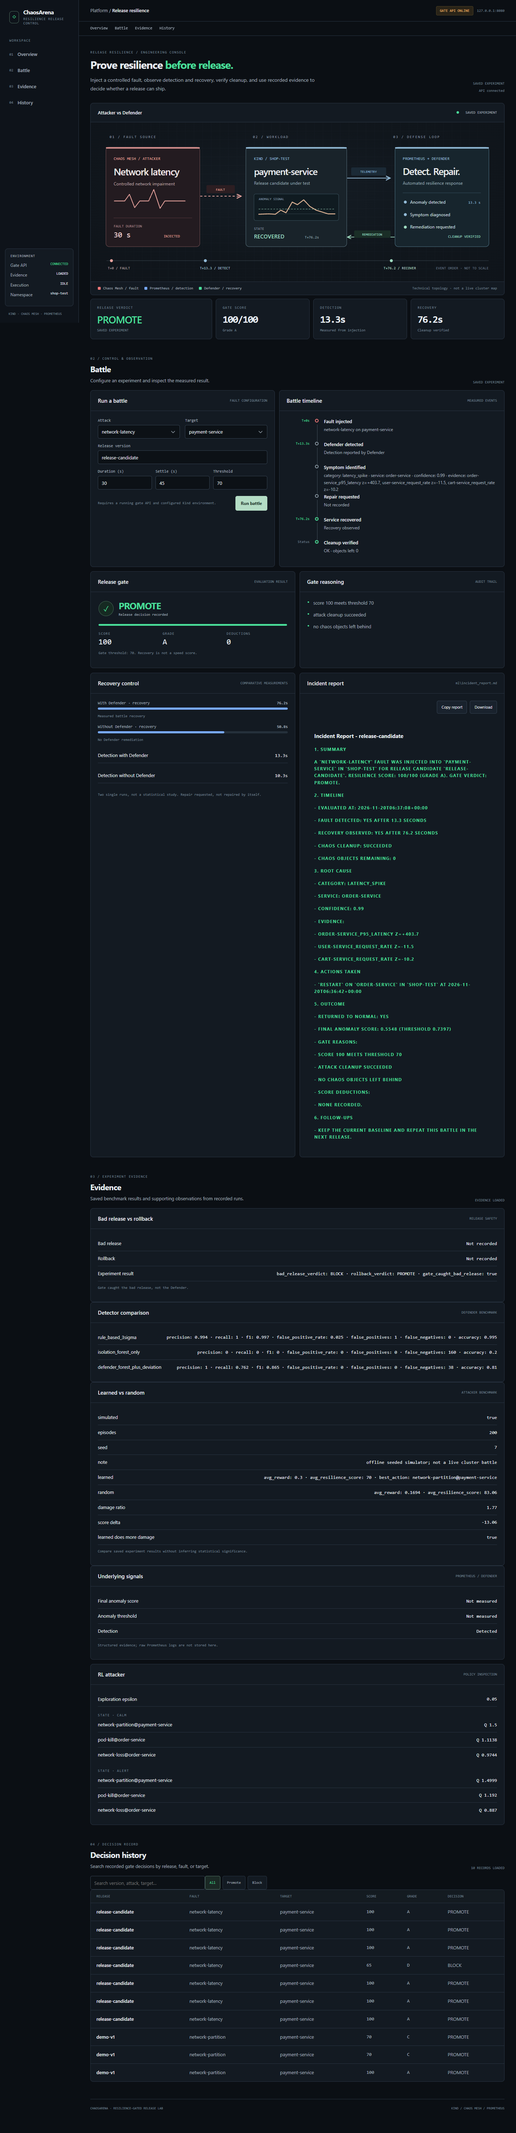
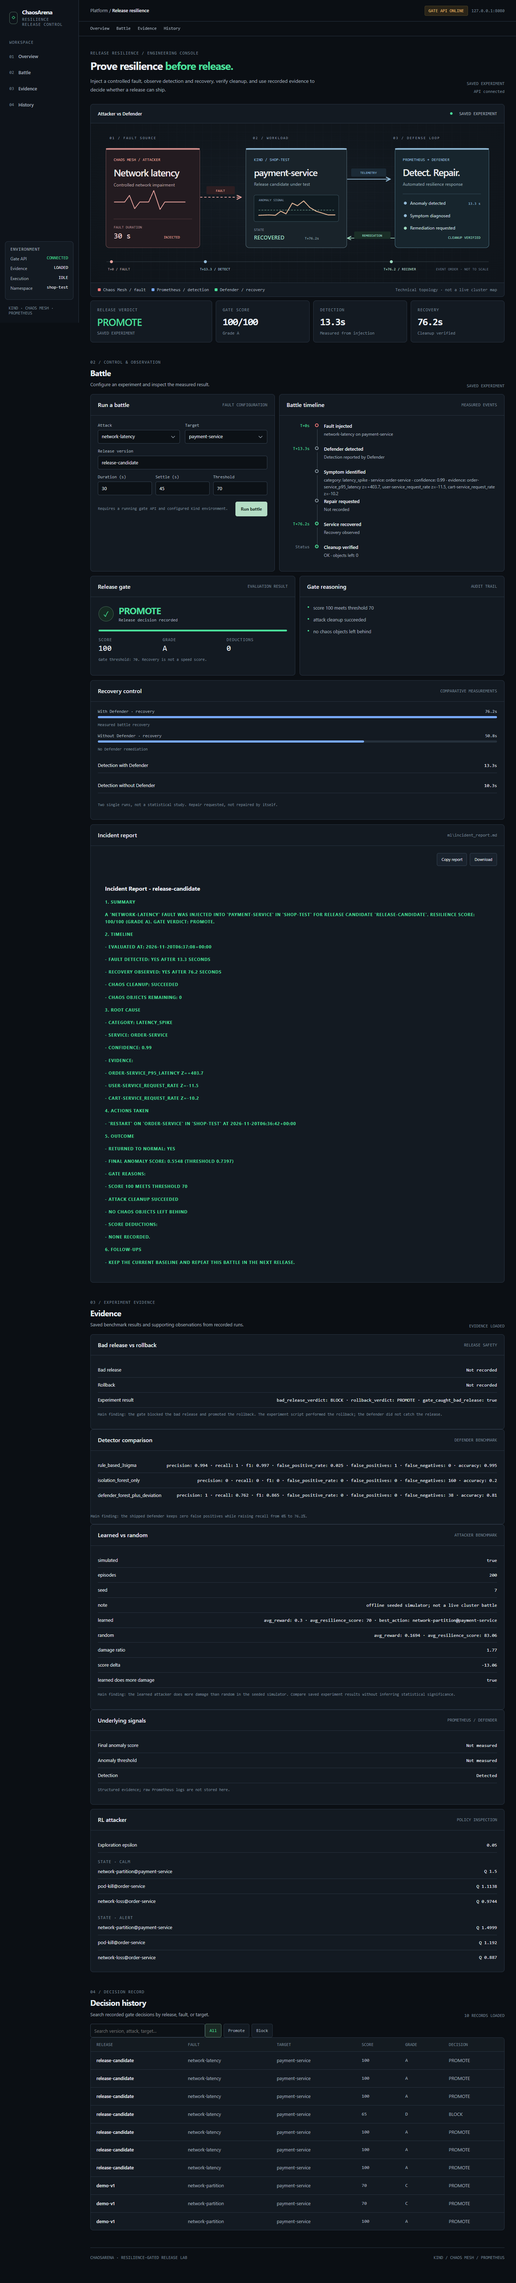
Apply comprehensive UI quality pass and fix responsive layout

diff --git a/dashboard/src/App.jsx b/dashboard/src/App.jsx
@@ -21,8 +21,8 @@ function Gate({result,threshold}){const score=result?.score?.score??result?.deci
 function ReportView({text}){if(!text)return <p className="state">No incident report recorded.</p>;const lines=String(text).split('\n');const blocks=[];let list=[];const flush=()=>{if(list.length){blocks.push(<ul key={blocks.length}>{list.map((item,i)=><li key={i}>{item}</li>)}</ul>);list=[]}};for(const raw of lines){const line=raw.trim();if(!line){flush();continue}if(line.startsWith('# ')){flush();blocks.push(<h3 key={blocks.length}>{line.slice(2)}</h3>);continue}const heading=line.match(/^\\*\\*(.+)\\*\\*$/) || line.match(/^\\d+\\.\\s+(.+)$/);if(heading){flush();blocks.push(<h4 key={blocks.length}>{heading[1]}</h4>);continue}if(line.startsWith('- ')){list.push(line.slice(2));continue}flush();blocks.push(<p key={blocks.length}>{line}</p>)}flush();return <div className="report">{blocks}</div>}
 function Track({label,seconds,max,sub}){return <div><div className="track-head"><span>{label}</span><strong>{fmt(seconds,'s')}</strong></div><div className="track"><span style={{width:hasNumber(seconds)&&max>0?`${Math.min(100,seconds/max*100)}%`:'0%'}}/></div><div className="recovery-note">{sub}</div></div>}
 function Compare({evidence,battle}){const baseline=evidence?.no_defender_baseline;const max=Math.max(1,battle?.recovery_seconds||0,baseline?.recovery_seconds||0);return <div className="recovery-tracks"><Track label="With Defender · recovery" seconds={battle?.recovery_seconds} max={max} sub="Measured battle recovery"/><Track label="Without Defender · recovery" seconds={baseline?.recovery_seconds} max={max} sub={baseline?.defender_remediation===false?'No Defender remediation':'Baseline evidence'}/><div className="metric-row"><span>Detection with Defender</span><strong>{fmt(battle?.detection_seconds,'s')}</strong></div><div className="metric-row"><span>Detection without Defender</span><strong>{fmt(baseline?.detection_seconds,'s')}</strong></div><p className="recovery-note">Two single runs, not a statistical study. Repair requested, not repaired by itself.</p></div>}
-function Evidence({evidence,policy,loading}){const bad=evidence?.bad_release_experiment;const rl=evidence?.rl_benchmark;const detectors=evidence?.defender_benchmark?.detectors;return <><div className="benchmark-grid"><Panel title="Bad release vs rollback" subtitle="RELEASE SAFETY"><div className="cardbody">{loading?<div className="state">Loading experiment evidence…</div>:bad?<><div className="metric-row"><span>Bad release</span><strong>{describe(bad.bad_release?.verdict??bad.bad_release?.decision?.verdict??bad.bad_release?.score??bad.bad_release?.status)}</strong></div><div className="metric-row"><span>Rollback</span><strong>{describe(bad.rollback?.verdict??bad.rollback?.decision?.verdict??bad.rollback?.score??bad.rollback?.status)}</strong></div><div className="metric-row"><span>Experiment result</span><strong>{describe(bad.result)}</strong></div><p className="recovery-note">Gate caught the bad release, not the Defender.</p></>:<div className="state">No bad-release experiment saved.</div>}</div></Panel><Panel title="Detector comparison" subtitle="DEFENDER BENCHMARK"><div className="cardbody">{loading?<div className="state">Loading detectors…</div>:detectors&&Object.keys(detectors).length?Object.entries(detectors).map(([name,data])=><div className="metric-row" key={name}><span>{name}</span><strong>{describe(data)}</strong></div>):<div className="state">No detector benchmark available.</div>}</div></Panel><Panel title="Learned vs random" subtitle="ATTACKER BENCHMARK"><div className="cardbody">{loading?<div className="state">Loading benchmark…</div>:rl&&Object.keys(rl).length?Object.entries(rl).map(([k,v])=><div className="metric-row" key={k}><span>{k.replaceAll('_',' ')}</span><strong>{describe(v)}</strong></div>):<div className="state">No RL benchmark available.</div>}<p className="recovery-note">Compare saved experiment results without inferring statistical significance.</p></div></Panel><Panel title="Underlying signals" subtitle="PROMETHEUS / DEFENDER"><div className="cardbody"><div className="metric-row"><span>Final anomaly score</span><strong>{fmt(evidence?.last_battle?.battle?.final_anomaly_score)}</strong></div><div className="metric-row"><span>Anomaly threshold</span><strong>{fmt(evidence?.last_battle?.battle?.anomaly_threshold??evidence?.last_battle?.battle?.threshold)}</strong></div><div className="metric-row"><span>Detection</span><strong>{evidence?.last_battle?.battle?.detected===true?'Detected':evidence?.last_battle?.battle?.detected===false?'Not detected':'Unknown'}</strong></div><p className="recovery-note">Structured evidence; raw Prometheus logs are not stored here.</p></div></Panel></div><Panel title="RL attacker" subtitle="POLICY INSPECTION" className="rl-panel"><div className="cardbody">{loading?<div className="state">Loading policy…</div>:!policy?.available?<div className="state">No saved RL policy available.</div>:<><div className="metric-row"><span>Exploration epsilon</span><strong>{show(policy.epsilon)}</strong></div>{Object.entries(policy.states||{}).map(([state,actions])=><div key={state} style={{marginTop:18}}><div className="overline">STATE · {state}</div>{Array.isArray(actions)&&actions.length?actions.map((a,i)=><div className="metric-row" key={i}><span>{describe(a.action)}</span><strong>Q {show(a.q)}</strong></div>):<div className="state">No actions recorded.</div>}</div>)}</>}</div></Panel></>}
+function Evidence({evidence,policy,loading}){const bad=evidence?.bad_release_experiment;const rl=evidence?.rl_benchmark;const detectors=evidence?.defender_benchmark?.detectors;return <><div className="benchmark-grid"><Panel title="Bad release vs rollback" subtitle="RELEASE SAFETY"><div className="cardbody">{loading?<div className="state">Loading experiment evidence…</div>:bad?<><div className="metric-row"><span>Bad release</span><strong>{describe(bad.bad_release?.verdict??bad.bad_release?.decision?.verdict??bad.bad_release?.score??bad.bad_release?.status)}</strong></div><div className="metric-row"><span>Rollback</span><strong>{describe(bad.rollback?.verdict??bad.rollback?.decision?.verdict??bad.rollback?.score??bad.rollback?.status)}</strong></div><div className="metric-row"><span>Experiment result</span><strong>{describe(bad.result)}</strong></div><p className="recovery-note">Main finding: the gate blocked the bad release and promoted the rollback. The experiment script performed the rollback; the Defender did not catch the release.</p></>:<div className="state">No bad-release experiment saved.</div>}</div></Panel><Panel title="Detector comparison" subtitle="DEFENDER BENCHMARK"><div className="cardbody">{loading?<div className="state">Loading detectors…</div>:detectors&&Object.keys(detectors).length?Object.entries(detectors).map(([name,data])=><div className="metric-row" key={name}><span>{name}</span><strong>{describe(data)}</strong></div>):<div className="state">No detector benchmark available.</div>}</div><p className="recovery-note">Main finding: the shipped Defender keeps zero false positives while raising recall from 0% to 76.2%.</p></Panel><Panel title="Learned vs random" subtitle="ATTACKER BENCHMARK"><div className="cardbody">{loading?<div className="state">Loading benchmark…</div>:rl&&Object.keys(rl).length?Object.entries(rl).map(([k,v])=><div className="metric-row" key={k}><span>{k.replaceAll('_',' ')}</span><strong>{describe(v)}</strong></div>):<div className="state">No RL benchmark available.</div>}<p className="recovery-note">Main finding: the learned attacker does more damage than random in the seeded simulator. Compare saved experiment results without inferring statistical significance.</p></div></Panel><Panel title="Underlying signals" subtitle="PROMETHEUS / DEFENDER"><div className="cardbody"><div className="metric-row"><span>Final anomaly score</span><strong>{fmt(evidence?.last_battle?.battle?.final_anomaly_score)}</strong></div><div className="metric-row"><span>Anomaly threshold</span><strong>{fmt(evidence?.last_battle?.battle?.anomaly_threshold??evidence?.last_battle?.battle?.threshold)}</strong></div><div className="metric-row"><span>Detection</span><strong>{evidence?.last_battle?.battle?.detected===true?'Detected':evidence?.last_battle?.battle?.detected===false?'Not detected':'Unknown'}</strong></div><p className="recovery-note">Structured evidence; raw Prometheus logs are not stored here.</p></div></Panel></div><Panel title="RL attacker" subtitle="POLICY INSPECTION" className="rl-panel"><div className="cardbody">{loading?<div className="state">Loading policy…</div>:!policy?.available?<div className="state">No saved RL policy available.</div>:<><div className="metric-row"><span>Exploration epsilon</span><strong>{show(policy.epsilon)}</strong></div>{Object.entries(policy.states||{}).map(([state,actions])=><div key={state} style={{marginTop:18}}><div className="overline">STATE · {state}</div>{Array.isArray(actions)&&actions.length?actions.map((a,i)=><div className="metric-row" key={i}><span>{describe(a.action)}</span><strong>Q {show(a.q)}</strong></div>):<div className="state">No actions recorded.</div>}</div>)}</>}</div></Panel></>}
 function History({items,loading,error}){const [query,setQuery]=useState('');const [filter,setFilter]=useState('ALL');const filtered=useMemo(()=>items.filter(r=>(filter==='ALL'||r.verdict===filter)&&[r.version,r.attack,r.target,r.verdict,r.score].join(' ').toLowerCase().includes(query.toLowerCase())),[items,query,filter]);return <><div className="history-tools"><input className="search" value={query} onChange={e=>setQuery(e.target.value)} aria-label="Search decisions" placeholder="Search version, attack, target…"/><div className="filters">{['ALL','PROMOTE','BLOCK'].map(x=><button type="button" className={filter===x?'active':''} key={x} onClick={()=>setFilter(x)}>{x==='ALL'?'All':x==='PROMOTE'?'Promote':'Block'}</button>)}</div></div><div className="panel tablewrap"><table><thead><tr>{['RELEASE','FAULT','TARGET','SCORE','GRADE','DECISION'].map(x=><th key={x}>{x}</th>)}</tr></thead><tbody>{filtered.map((r,i)=><tr key={`${r.id??r.version??'decision'}-${i}`}><td>{show(r.version,'—')}</td><td>{show(r.attack,'—')}</td><td>{show(r.target,'—')}</td><td className="mono">{show(r.score,'—')}</td><td className="mono">{show(r.grade??(hasNumber(r.score)?grade(r.score):null),'—')}</td><td><span className={`pill ${cls(r.verdict)}`}>{show(r.verdict,'—')}</span></td></tr>)}</tbody></table>{loading?<div className="empty">Loading decision history…</div>:error?<div className="empty error">History unavailable: {error}</div>:!filtered.length?<div className="empty">{items.length?'No matching decisions.':'No decisions recorded.'}</div>:null}</div></>}
 export default function App(){const [form,setForm]=useState(DEFAULT_FORM);const [data,setData]=useState({});const [pending,setPending]=useState(true);const [running,setRunning]=useState(false);const [errors,setErrors]=useState({});const [toast,setToast]=useState('');const timer=useRef(null);const notify=useCallback(message=>{setToast(message);clearTimeout(timer.current);timer.current=setTimeout(()=>setToast(''),4200)},[]);useEffect(()=>()=>clearTimeout(timer.current),[])
 const refresh=useCallback(async()=>{setPending(true);const keys=['health','evidence','last','history','report','policy'];const results=await Promise.allSettled([getHealth(),getEvidence(),getLastGate(),getHistory(10),getReport(),getRlPolicy()]);const values={};const faults={};results.forEach((r,i)=>{if(r.status==='fulfilled')values[keys[i]]=r.value;else faults[keys[i]]=r.reason?.message||'Request failed'});setData(old=>({...old,...values}));setErrors(faults);setPending(false)},[]);useEffect(()=>{refresh()},[refresh]);const result=data.current??data.evidence?.last_battle??(data.last?.decision?{decision:data.last.decision}:null);const battle=result?.battle;const score=result?.score?.score??result?.decision?.score;const verdict=result?.decision?.verdict;const history=data.history?.decisions??[];const online=Boolean(data.health)&&!errors.health;const source=data.current?'NEW EXPERIMENT':data.evidence?.last_battle?'SAVED EXPERIMENT':'NO BATTLE DATA';const run=async e=>{e.preventDefault();if(!form.version.trim()||!Number.isFinite(form.duration)||form.duration<=0||!Number.isFinite(form.settle)||form.settle<0||!Number.isFinite(form.threshold)||form.threshold<0||form.threshold>100){notify('Check battle parameters.');return}setRunning(true);notify('Experiment submitted. Waiting for the gate API.');try{const result=await evaluate({...form,version:form.version.trim()});setData(old=>({...old,current:result}));notify('Gate evaluation completed.');const updates=await Promise.allSettled([getHistory(10),getReport(),getEvidence()]);setData(old=>({...old,...(updates[0].status==='fulfilled'?{history:updates[0].value}:{}),...(updates[1].status==='fulfilled'?{report:updates[1].value}:{}),...(updates[2].status==='fulfilled'?{evidence:updates[2].value}:{})}));}catch(err){notify(`Battle could not run: ${err.message}`)}finally{setRunning(false)}};const copy=async()=>{if(!data.report?.text){notify('No report to copy.');return}try{await navigator.clipboard.writeText(data.report.text);notify('Incident report copied.')}catch{notify('Clipboard unavailable.')}}
-const downloadReport=()=>{if(!data.report?.text){notify('No report to download.');return}const blob=new Blob([data.report.text],{type:'text/markdown'});const url=URL.createObjectURL(blob);const link=document.createElement('a');link.href=url;link.download='chaosarena-incident-report.md';link.click();URL.revokeObjectURL(url);notify('Incident report downloaded.')};return <div className="app"><aside className="sidebar"><div className="brand"><div className="brandmark">◇</div><div><div className="brandname">ChaosArena</div><div className="brandcaption">RESILIENCE RELEASE CONTROL</div></div></div><div className="navcap">WORKSPACE</div><nav className="nav" aria-label="Primary navigation">{['Overview','Battle','Evidence','History'].map((n,i)=><a href={`#${n.toLowerCase()}`} key={n}><span className="n">0{i+1}</span>{n}</a>)}</nav><div className="sideend"><div className="env"><div className="envtitle">ENVIRONMENT</div><div className="envline"><span>Gate API</span><strong className={online?'green':'amber'}>{pending?'CHECKING':online?'CONNECTED':'OFFLINE'}</strong></div><div className="envline"><span>Evidence</span><strong>{data.evidence?'LOADED':pending?'LOADING':'UNAVAILABLE'}</strong></div><div className="envline"><span>Execution</span><strong>{running?'RUNNING':'IDLE'}</strong></div><div className="envline"><span>Namespace</span><strong>shop-test</strong></div></div><div className="footnote">KIND · CHAOS MESH · PROMETHEUS</div></div></aside><div className="main"><header className="topbar"><div className="crumb">Platform / <strong>Release resilience</strong></div><div className="topright"><span className="mode">{running?'EXPERIMENT RUNNING':online?'GATE API ONLINE':'GATE API OFFLINE'}</span><span className="address">{import.meta.env.VITE_API_URL||'127.0.0.1:8080'}</span></div></header><nav className="subnav" aria-label="Section navigation">{['Overview','Battle','Evidence','History'].map(n=><a key={n} href={`#${n.toLowerCase()}`}>{n}</a>)}</nav><main className="container"><section className="section" id="overview"><div className="intro"><div><div className="overline">RELEASE RESILIENCE / ENGINEERING CONSOLE</div><h1>Prove resilience <span>before release.</span></h1><p>Inject a controlled fault, observe detection and recovery, verify cleanup, and use recorded evidence to decide whether a release can ship.</p></div><aside>{source}<div style={{marginTop:8}}>{pending?'Loading…':online?'API connected':'API unavailable'}</div></aside></div><div className="panel arena"><div className="arenahead"><strong>Attacker vs Defender</strong><div className="right"><span className="dot" style={{background:online?'var(--green)':'var(--amber)'}}/> {source}</div></div><div className="arenafigure" dangerouslySetInnerHTML={{__html:arenaSvg}}/><div className="arenacaption"><span className="key"><i className="red"/>Chaos Mesh / fault</span><span className="key"><i/>Prometheus / detection</span><span className="key"><i className="green"/>Defender / recovery</span><span className="last">Technical topology · not a live cluster map</span></div></div><div className="kpi-grid"><Metric label="RELEASE VERDICT" value={show(verdict,pending?'Loading…':'Unavailable')} sub={source} accent={verdict==='PROMOTE'}/><Metric label="GATE SCORE" value={hasNumber(score)?`${score}/100`:'—'} sub={`Grade ${show(result?.score?.grade??result?.decision?.grade??(hasNumber(score)?grade(score):null),'—')}`}/><Metric label="DETECTION" value={fmt(battle?.detection_seconds,'s')} sub={battle?.detected===false?'Fault not detected':'Measured from injection'}/><Metric label="RECOVERY" value={fmt(battle?.recovery_seconds,'s')} sub={battle?.cleanup_ok===true?'Cleanup verified':battle?.cleanup_ok===false?'Cleanup failed':'Cleanup not recorded'}/></div></section><section className="section" id="battle"><div className="sectionheading"><div><div className="overline">02 / CONTROL & OBSERVATION</div><h2>Battle</h2><p>Configure an experiment and inspect the measured result.</p></div><div className="right">{running?'GATE EVALUATING':source}</div></div><div className="twocol"><Panel title="Run a battle" subtitle="FAULT CONFIGURATION"><form className="cardbody" onSubmit={run}><div className="fields"><Field name="attack" label="Attack" form={form} setForm={setForm} options={ATTACKS}/><Field name="target" label="Target" form={form} setForm={setForm} options={TARGETS}/><div className="field wide"><Field name="version" label="Release version" form={form} setForm={setForm}/></div></div><div className="three"><Field name="duration" label="Duration (s)" form={form} setForm={setForm} min={1}/><Field name="settle" label="Settle (s)" form={form} setForm={setForm} min={0}/><Field name="threshold" label="Threshold" form={form} setForm={setForm} min={0} max={100}/></div><div className="actions"><small>Requires a running gate API and configured Kind environment.</small><button className="btn" type="submit" disabled={running}>{running?'Running experiment…':'Run battle'}</button></div>{errors.health&&<p className="note error">Gate API unavailable. Saved evidence may still be displayed if previously loaded.</p>}</form></Panel><Panel title="Battle timeline" subtitle="MEASURED EVENTS"><Timeline battle={battle}/></Panel></div><Gate result={result} threshold={form.threshold}/><div className="two-panel" style={{marginTop:13}}><Panel title="Recovery control" subtitle="COMPARATIVE MEASUREMENTS"><div className="cardbody"><Compare evidence={data.evidence} battle={battle}/></div></Panel><Panel title="Incident report" subtitle={show(data.report?.file,'LATEST REPORT')}><div className="cardbody"><div style={{display:'flex',justifyContent:'flex-end',gap:8,marginBottom:12}}><button className="btnsub" type="button" onClick={copy} disabled={!data.report?.text}>Copy report</button><button className="btnsub" type="button" onClick={downloadReport} disabled={!data.report?.text}>Download</button></div><div className="reportbody">{pending && !data.report?.text ? <p className="state">Loading incident report.</p> : errors.report ? <p className="state">Incident report unavailable.</p> : <ReportView text={data.report?.text} />}</div></div></Panel></div></section><section className="section" id="evidence"><div className="sectionheading"><div><div className="overline">03 / EXPERIMENT EVIDENCE</div><h2>Evidence</h2><p>Saved benchmark results and supporting observations from recorded runs.</p></div><div className="right">{data.evidence?'EVIDENCE LOADED':pending?'LOADING':'UNAVAILABLE'}</div></div><Evidence evidence={data.evidence} policy={data.policy} loading={pending}/></section><section className="section" id="history"><div className="sectionheading"><div><div className="overline">04 / DECISION RECORD</div><h2>Decision history</h2><p>Search recorded gate decisions by release, fault, or target.</p></div><div className="right">{history.length} RECORDS LOADED</div></div><History items={history} loading={pending} error={errors.history}/></section><footer className="footer"><span>CHAOSARENA · RESILIENCE-GATED RELEASE LAB</span><span>KIND / CHAOS MESH / PROMETHEUS</span></footer></main></div>{toast&&<div className="toast" role="status">{toast}</div>}</div>}
+const downloadReport=()=>{if(!data.report?.text){notify('No report to download.');return}const blob=new Blob([data.report.text],{type:'text/markdown'});const url=URL.createObjectURL(blob);const link=document.createElement('a');link.href=url;link.download='chaosarena-incident-report.md';link.click();URL.revokeObjectURL(url);notify('Incident report downloaded.')};return <div className="app"><aside className="sidebar"><div className="brand"><div className="brandmark">◇</div><div><div className="brandname">ChaosArena</div><div className="brandcaption">RESILIENCE RELEASE CONTROL</div></div></div><div className="navcap">WORKSPACE</div><nav className="nav" aria-label="Primary navigation">{['Overview','Battle','Evidence','History'].map((n,i)=><a href={`#${n.toLowerCase()}`} key={n}><span className="n">0{i+1}</span>{n}</a>)}</nav><div className="sideend"><div className="env"><div className="envtitle">ENVIRONMENT</div><div className="envline"><span>Gate API</span><strong className={online?'green':'amber'}>{pending?'CHECKING':online?'CONNECTED':'OFFLINE'}</strong></div><div className="envline"><span>Evidence</span><strong>{data.evidence?'LOADED':pending?'LOADING':'UNAVAILABLE'}</strong></div><div className="envline"><span>Execution</span><strong>{running?'RUNNING':'IDLE'}</strong></div><div className="envline"><span>Namespace</span><strong>shop-test</strong></div></div><div className="footnote">KIND · CHAOS MESH · PROMETHEUS</div></div></aside><div className="main"><header className="topbar"><div className="crumb">Platform / <strong>Release resilience</strong></div><div className="topright"><span className="mode">{running?'EXPERIMENT RUNNING':online?'GATE API ONLINE':'GATE API OFFLINE'}</span><span className="address">{import.meta.env.VITE_API_URL||'127.0.0.1:8080'}</span></div></header><nav className="subnav" aria-label="Section navigation">{['Overview','Battle','Evidence','History'].map(n=><a key={n} href={`#${n.toLowerCase()}`}>{n}</a>)}</nav><main className="container"><section className="section" id="overview"><div className="intro"><div><div className="overline">RELEASE RESILIENCE / ENGINEERING CONSOLE</div><h1>Prove resilience <span>before release.</span></h1><p>Inject a controlled fault, observe detection and recovery, verify cleanup, and use recorded evidence to decide whether a release can ship.</p></div><aside>{source}<div style={{marginTop:8}}>{pending?'Loading…':online?'API connected':'API unavailable'}</div></aside></div><div className="panel arena"><div className="arenahead"><strong>Attacker vs Defender</strong><div className="right"><span className="dot" style={{background:online?'var(--green)':'var(--amber)'}}/> {source}</div></div><div className="arenafigure" dangerouslySetInnerHTML={{__html:arenaSvg}}/><div className="arenacaption"><span className="key"><i className="red"/>Chaos Mesh / fault</span><span className="key"><i/>Prometheus / detection</span><span className="key"><i className="green"/>Defender / recovery</span><span className="last">Technical topology · not a live cluster map</span></div></div><div className="kpi-grid"><Metric label="RELEASE VERDICT" value={show(verdict,pending?'Loading…':'Unavailable')} sub={source} accent={verdict==='PROMOTE'}/><Metric label="GATE SCORE" value={hasNumber(score)?`${score}/100`:'—'} sub={`Grade ${show(result?.score?.grade??result?.decision?.grade??(hasNumber(score)?grade(score):null),'—')}`}/><Metric label="DETECTION" value={fmt(battle?.detection_seconds,'s')} sub={battle?.detected===false?'Fault not detected':'Measured from injection'}/><Metric label="RECOVERY" value={fmt(battle?.recovery_seconds,'s')} sub={battle?.cleanup_ok===true?'Cleanup verified':battle?.cleanup_ok===false?'Cleanup failed':'Cleanup not recorded'}/></div></section><section className="section" id="battle"><div className="sectionheading"><div><div className="overline">02 / CONTROL & OBSERVATION</div><h2>Battle</h2><p>Configure an experiment and inspect the measured result.</p></div><div className="right">{running?'GATE EVALUATING':source}</div></div><div className="twocol"><Panel title="Run a battle" subtitle="FAULT CONFIGURATION"><form className="cardbody" onSubmit={run}><div className="fields"><Field name="attack" label="Attack" form={form} setForm={setForm} options={ATTACKS}/><Field name="target" label="Target" form={form} setForm={setForm} options={TARGETS}/><div className="field wide"><Field name="version" label="Release version" form={form} setForm={setForm}/></div></div><div className="three"><Field name="duration" label="Duration (s)" form={form} setForm={setForm} min={1}/><Field name="settle" label="Settle (s)" form={form} setForm={setForm} min={0}/><Field name="threshold" label="Threshold" form={form} setForm={setForm} min={0} max={100}/></div><div className="actions"><small>Requires a running gate API and configured Kind environment.</small><button className="btn" type="submit" disabled={running}>{running?'Running experiment…':'Run battle'}</button></div>{errors.health&&<p className="note error">Gate API unavailable. Saved evidence may still be displayed if previously loaded.</p>}</form></Panel><Panel title="Battle timeline" subtitle="MEASURED EVENTS"><Timeline battle={battle}/></Panel></div><Gate result={result} threshold={form.threshold}/><div style={{marginTop:13}}><Panel title="Recovery control" subtitle="COMPARATIVE MEASUREMENTS"><div className="cardbody"><Compare evidence={data.evidence} battle={battle}/></div></Panel></div><details className="panel" open style={{marginTop:13}}><summary className="panelheader"><h3>Incident report</h3><small>{show(data.report?.file,'LATEST REPORT')}</small></summary><div className="cardbody"><div style={{display:'flex',justifyContent:'flex-end',gap:8,marginBottom:12}}><button className="btnsub" type="button" onClick={copy} disabled={!data.report?.text}>Copy report</button><button className="btnsub" type="button" onClick={downloadReport} disabled={!data.report?.text}>Download</button></div><div className="reportbody">{pending && !data.report?.text ? <p className="state">Loading incident report.</p> : errors.report ? <p className="state">Incident report unavailable.</p> : <ReportView text={data.report?.text} />}</div></div></details></section><section className="section" id="evidence"><div className="sectionheading"><div><div className="overline">03 / EXPERIMENT EVIDENCE</div><h2>Evidence</h2><p>Saved benchmark results and supporting observations from recorded runs.</p></div><div className="right">{data.evidence?'EVIDENCE LOADED':pending?'LOADING':'UNAVAILABLE'}</div></div><Evidence evidence={data.evidence} policy={data.policy} loading={pending}/></section><section className="section" id="history"><div className="sectionheading"><div><div className="overline">04 / DECISION RECORD</div><h2>Decision history</h2><p>Search recorded gate decisions by release, fault, or target.</p></div><div className="right">{history.length} RECORDS LOADED</div></div><History items={history} loading={pending} error={errors.history}/></section><footer className="footer"><span>CHAOSARENA · RESILIENCE-GATED RELEASE LAB</span><span>KIND / CHAOS MESH / PROMETHEUS</span></footer></main></div>{toast&&<div className="toast" role="status">{toast}</div>}</div>}

diff --git a/dashboard/src/styles.css b/dashboard/src/styles.css
@@ -85,15 +85,15 @@ button:focus-visible, a:focus-visible, input:focus-visible, select:focus-visible
 }
 
 .brandcaption {
-  font: 10px var(--mono);
+  font: 12px var(--mono);
   letter-spacing: 0.08em;
   color: var(--dim);
   margin-top: 4px;
 }
 
 .navcap, .overline {
-  font: 10px var(--mono);
-  letter-spacing: 0.12em;
+  font: 12px var(--mono);
+  letter-spacing: 0.08em;
   text-transform: uppercase;
   color: var(--dim);
 }
@@ -131,7 +131,7 @@ button:focus-visible, a:focus-visible, input:focus-visible, select:focus-visible
 }
 
 .nav .n {
-  font: 10px var(--mono);
+  font: 12px var(--mono);
   color: var(--dim);
 }
 
@@ -149,7 +149,7 @@ button:focus-visible, a:focus-visible, input:focus-visible, select:focus-visible
 }
 
 .envtitle {
-  font: 10px var(--mono);
+  font: 12px var(--mono);
   color: var(--muted);
   margin-bottom: 10px;
   letter-spacing: 0.08em;
@@ -166,7 +166,7 @@ button:focus-visible, a:focus-visible, input:focus-visible, select:focus-visible
 .envline span:first-child { color: var(--muted); }
 
 .envline strong {
-  font: 10px var(--mono);
+  font: 12px var(--mono);
   font-weight: 500;
   color: var(--text);
 }
@@ -175,7 +175,7 @@ button:focus-visible, a:focus-visible, input:focus-visible, select:focus-visible
 .envline strong.amber { color: var(--amber); }
 
 .footnote {
-  font: 9px var(--mono);
+  font: 12px var(--mono);
   color: var(--dim);
   padding: 16px 10px 0;
 }
@@ -208,7 +208,7 @@ button:focus-visible, a:focus-visible, input:focus-visible, select:focus-visible
   display: flex;
   gap: 10px;
   align-items: center;
-  font: 10px var(--mono);
+  font: 12px var(--mono);
 }
 
 .topright .mode {
@@ -260,7 +260,7 @@ button:focus-visible, a:focus-visible, input:focus-visible, select:focus-visible
 }
 
 .intro aside {
-  font: 10px var(--mono);
+  font: 12px var(--mono);
   color: var(--dim);
   text-align: right;
   white-space: nowrap;
@@ -288,13 +288,13 @@ button:focus-visible, a:focus-visible, input:focus-visible, select:focus-visible
 }
 
 .sectionheading .right {
-  font: 10px var(--mono);
+  font: 12px var(--mono);
   color: var(--dim);
 }
 
 .overline {
-  font: 10px var(--mono);
-  letter-spacing: 0.12em;
+  font: 12px var(--mono);
+  letter-spacing: 0.08em;
   text-transform: uppercase;
   color: var(--dim);
 }
@@ -316,13 +316,13 @@ button:focus-visible, a:focus-visible, input:focus-visible, select:focus-visible
 }
 
 .panelheader h3 {
-  font-size: 15px;
+  font-size: 16px;
   margin: 0;
   font-weight: 600;
 }
 
 .panelheader small {
-  font: 10px var(--mono);
+  font: 12px var(--mono);
   color: var(--dim);
   max-width: 60%;
   overflow-wrap: anywhere;
@@ -350,7 +350,7 @@ button:focus-visible, a:focus-visible, input:focus-visible, select:focus-visible
   display: flex;
   gap: 12px;
   align-items: center;
-  font: 10px var(--mono);
+  font: 12px var(--mono);
   color: var(--muted);
 }
 
@@ -399,7 +399,7 @@ button:focus-visible, a:focus-visible, input:focus-visible, select:focus-visible
   gap: 16px;
   padding: 12px 20px;
   border-top: 1px solid var(--line);
-  font: 10px var(--mono);
+  font: 12px var(--mono);
   color: var(--muted);
 }
 
@@ -451,7 +451,7 @@ button:focus-visible, a:focus-visible, input:focus-visible, select:focus-visible
 }
 
 .kpi .sub {
-  font: 10px var(--mono);
+  font: 12px var(--mono);
   color: var(--dim);
   margin-top: 8px;
 }
@@ -483,7 +483,7 @@ button:focus-visible, a:focus-visible, input:focus-visible, select:focus-visible
 .field.wide { grid-column: 1 / -1; }
 
 .field label {
-  font: 11px var(--mono);
+  font: 12px var(--mono);
   color: var(--muted);
 }
 
@@ -547,7 +547,7 @@ button:focus-visible, a:focus-visible, input:focus-visible, select:focus-visible
 }
 
 .actions small, .note {
-  font: 10px/1.7 var(--mono);
+  font: 11px/1.7 var(--mono);
   color: var(--dim);
 }
 
@@ -575,7 +575,7 @@ button:focus-visible, a:focus-visible, input:focus-visible, select:focus-visible
 }
 
 .event .time {
-  font: 10px var(--mono);
+  font: 12px var(--mono);
   color: var(--dim);
   padding-top: 3px;
   text-align: right;
@@ -646,7 +646,7 @@ button:focus-visible, a:focus-visible, input:focus-visible, select:focus-visible
 }
 
 .gateverdict p {
-  font: 10px var(--mono);
+  font: 12px var(--mono);
   color: var(--muted);
   margin: 4px 0 0;
 }
@@ -711,7 +711,7 @@ button:focus-visible, a:focus-visible, input:focus-visible, select:focus-visible
 }
 
 .evcard h3 {
-  font-size: 15px;
+  font-size: 16px;
   letter-spacing: -0.02em;
   margin: 10px 0 6px;
 }
@@ -730,7 +730,7 @@ button:focus-visible, a:focus-visible, input:focus-visible, select:focus-visible
   align-items: end;
   justify-content: space-between;
   gap: 10px;
-  font: 10px var(--mono);
+  font: 12px var(--mono);
   color: var(--dim);
 }
 
@@ -764,13 +764,13 @@ button:focus-visible, a:focus-visible, input:focus-visible, select:focus-visible
   overflow-wrap: anywhere;
   max-height: 400px;
   overflow: auto;
-  font: 12px/1.8 var(--mono);
+  font: 13px/1.8 var(--mono);
   color: #a8b5bc;
   margin: 0;
 }
 
 .report h3 {
-  font-size: 15px;
+  font-size: 16px;
   margin: 18px 0 8px;
   color: var(--text);
 }
@@ -778,7 +778,7 @@ button:focus-visible, a:focus-visible, input:focus-visible, select:focus-visible
 .report h4 {
   font-size: 12px;
   text-transform: uppercase;
-  letter-spacing: 0.12em;
+  letter-spacing: 0.08em;
   color: var(--green);
   margin: 16px 0 6px;
 }
@@ -821,7 +821,7 @@ button:focus-visible, a:focus-visible, input:focus-visible, select:focus-visible
   color: var(--muted);
   padding: 0 12px;
   border-radius: 5px;
-  font: 10px var(--mono);
+  font: 12px var(--mono);
   height: 38px;
 }
 
@@ -842,7 +842,7 @@ table {
 th {
   text-align: left;
   padding: 12px 16px;
-  font: 10px var(--mono);
+  font: 12px var(--mono);
   color: var(--dim);
   background: #141b21;
   font-weight: 400;
@@ -861,7 +861,7 @@ td:first-child {
 }
 
 .tag {
-  font: 10px var(--mono);
+  font: 12px var(--mono);
   border-radius: 4px;
   padding: 4px 8px;
   color: var(--green);
@@ -888,7 +888,7 @@ td:first-child {
   justify-content: space-between;
   gap: 12px;
   flex-wrap: wrap;
-  font: 9px var(--mono);
+  font: 12px var(--mono);
   color: var(--dim);
 }
 
@@ -940,7 +940,7 @@ td:first-child {
   .topbar { padding: 0 16px; }
   .container { padding: 28px 16px 48px; }
   .intro aside { display: none; }
-  .intro h1 { font-size: 34px; }
+  .intro h1 { font-size: 30px; }
   .arenafigure { padding: 12px 8px; }
   .arenafigure svg { min-width: 580px; }
   .arenafigure { overflow: auto; }
@@ -980,7 +980,7 @@ td:first-child {
   display: flex;
   justify-content: space-between;
   gap: 12px;
-  font: 11px var(--mono);
+  font: 12px var(--mono);
   color: var(--muted);
   margin-bottom: 6px;
 }
@@ -999,7 +999,7 @@ td:first-child {
 .track > span.green { background: var(--green); }
 .track > span.red { background: var(--red); }
 .recovery-note {
-  font: 10px/1.7 var(--mono);
+  font: 11px/1.7 var(--mono);
   color: var(--dim);
   margin-top: 10px;
 }
@@ -1031,7 +1031,7 @@ td:first-child {
 
 .subnav a {
   padding: 12px 0;
-  font: 11px var(--mono);
+  font: 12px var(--mono);
   color: var(--muted);
   border-bottom: 2px solid transparent;
 }

diff --git a/fix_typography.py b/fix_typography.py
@@ -1,0 +1,19 @@
+from pathlib import Path
+p = Path("dashboard/src/styles.css")
+s = p.read_text(encoding="utf-8")
+repls = [
+ ("font: 9px var(--mono);", "font: 10px var(--mono);"),
+ ("font: 10px var(--mono);", "font: 11px var(--mono);"),
+ ("font: 10px/1.7 var(--mono);", "font: 11px/1.7 var(--mono);"),
+ ("font: 11px var(--mono);", "font: 12px var(--mono);"),
+ ("font: 12px/1.8 var(--mono);", "font: 13px/1.8 var(--mono);"),
+ ("font: 13px var(--mono);", "font: 13px var(--mono);"),
+ ("font: 13px/1.6 var(--sans);", "font: 14px/1.6 var(--sans);"),
+ ("letter-spacing: 0.12em;", "letter-spacing: 0.08em;"),
+ ("letter-spacing: .13em;", "letter-spacing: .08em;"),
+ ("font-size: 34px;", "font-size: 30px;"),
+]
+for a,b in repls:
+    s = s.replace(a,b)
+p.write_text(s, encoding="utf-8")
+print("done")

diff --git a/tests/test_phase9.py b/tests/test_phase9.py
@@ -192,8 +192,7 @@ def test_frontend_has_navigation_timeline_filters_and_report_actions():
         "Overview", "Battle", "Evidence", "History",
         "Battle timeline", "Learned vs random", "Detector comparison",
         "Recovery control", "Bad release vs rollback",
-        "With Defender", "speed score", "Gate caught the bad release",
-        "Search decisions", "Download", "Copy", "toast",
+        "With Defender", "speed score", "Main finding: the gate blocked",        "Search decisions", "Download", "Copy", "toast",
     ]:
         assert label in app, f"missing UI feature: {label}"
     for feature in ["subnav", "kpi-grid", "timeline", "benchmark-grid", "history-tools", ".toast"]:
